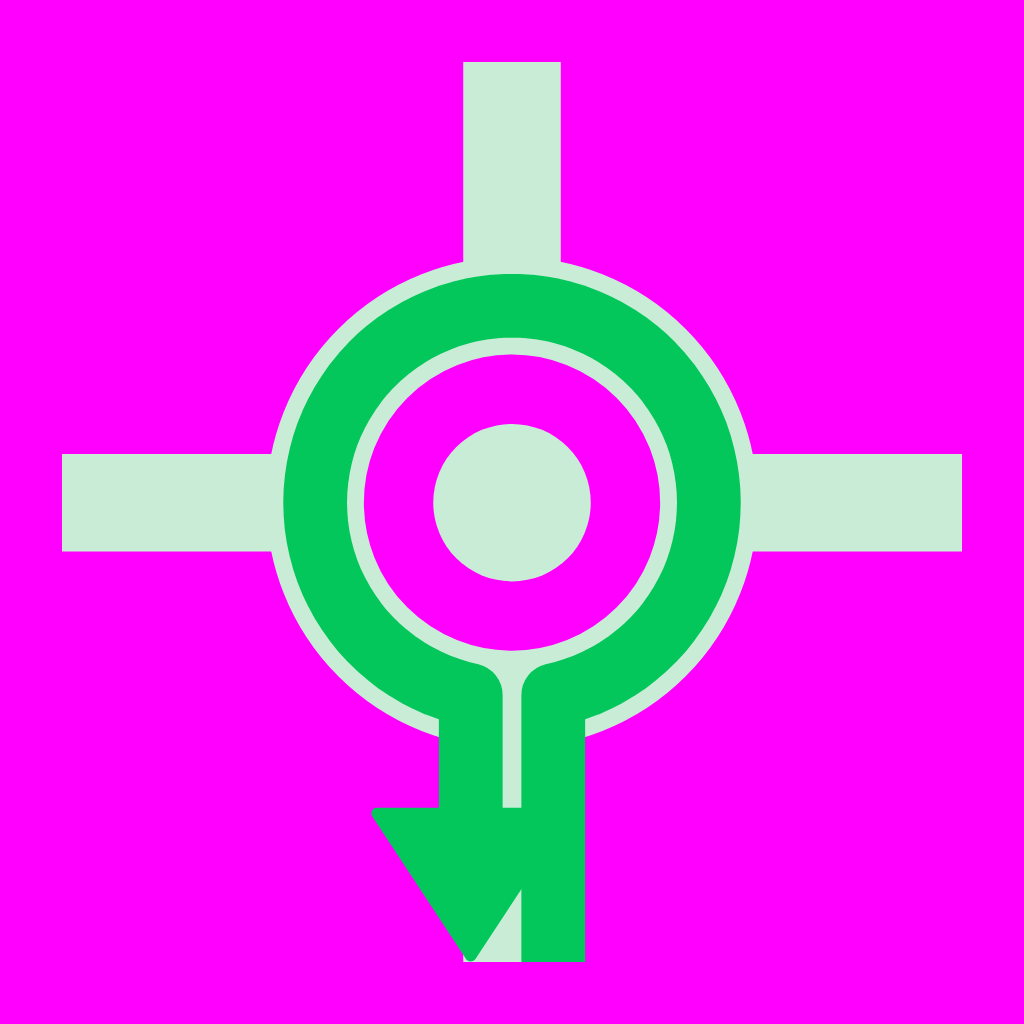
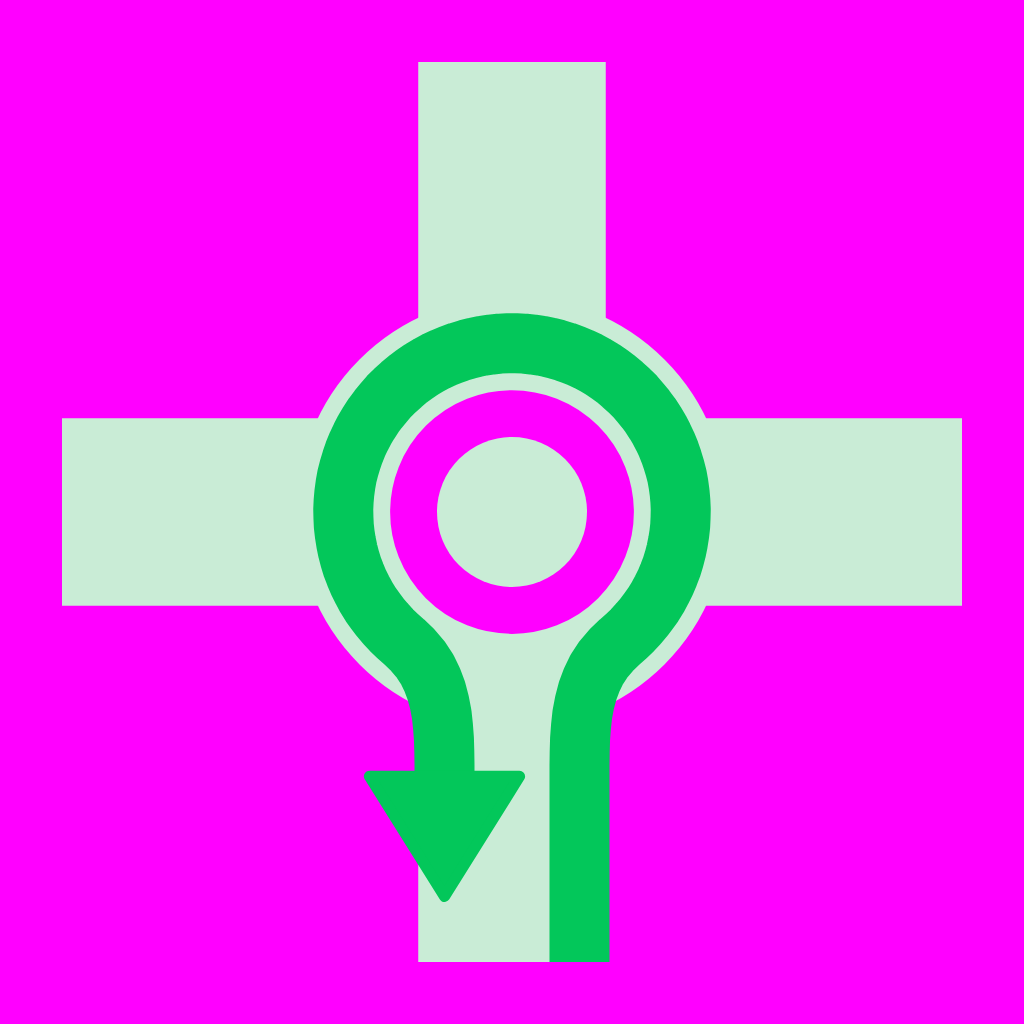
AI sketches: cleaner roundabout and overpass layouts
User spotted sketch flaws (left-exit arrowhead running into the ring, U-turn head touching the entry line).
Roundabouts: smaller ring, smooth entry/exit curves, arrowheads clear of ring and edges, U-turn lines 7 apart.
Overpass ramps: straight over the bridge, shadow only on the road below, ramp edges kept under the main road.
Sketches only; the app does not use them.

Changed region(s): [[0.0625, 0.0625, 0.9375, 0.9375], [0.5312, 0.5312, 0.5625, 0.5625], [0.4375, 0.5312, 0.4688, 0.5625]]

diff --git a/tools/ref_roads.py b/tools/ref_roads.py
@@ -198,9 +198,9 @@ def straight_ramp(key, out):
 
 
 # ------------------------------------------------------------------ 고가차도·지하차도·옆길
-def span_over(p, cy, half):
-    """경로 p 중 가로 길(가운데 y=cy, 반폭 half)을 넘는 부분"""
-    m = np.abs(p[:, 1] - cy) <= half + 2.2
+def span_over(p, cy, half, extra=2.2):
+    """경로 p 중 가로 길(가운데 y=cy, 반폭 half)을 넘는 부분 (extra: 가로 길 밖으로 더 넣는 길이. 그림자는 0 → 가로 길 위에만)"""
+    m = np.abs(p[:, 1] - cy) <= half + extra
     idx = np.nonzero(m)[0]
     return p[idx.min():idx.max() + 1]
 
@@ -240,16 +240,17 @@ def over(key):
         p = pts([('M', (24, 49.5)), ('L', (24, -1.5))])
         w1, t1 = road(p, MAIN_W)
         sp = span_over(p, 21, 5.25)
-        body = (cross_road(21, 10.5) + shadow(sp, MAIN_W) + w1 + t1 + parapets(sp, MAIN_W) +
+        body = (cross_road(21, 10.5) + shadow(span_over(p, 21, 5.25, 0), MAIN_W) + w1 + t1 + parapets(sp, MAIN_W) +
                 lanes(p, MAIN_W, 3, skip=(1, 2)) + arrow(p, start=3.4, end=4.4))
         return svg(key, 'over', body)
     main = pts([('M', (15, 49.5)), ('L', (15, -1.5))])
-    r = pts([('M', (15, 49.5)), ('L', (15, 34)), ('C', (15, 27), (22, 24), (28, 21.5)), ('C', (32.5, 19.6), (35, 16.5), (35, 11)), ('L', (35, -1.5))])
+    r = pts([('M', (15, 49.5)), ('L', (15, 37)), ('C', (15, 30), (35, 32), (35, 25)), ('L', (35, -1.5))])
     w1, t1 = road(main, MAIN_W, 'rd')
     w2, t2 = road(r, 7.2)
-    sp = span_over(r, 12, 4.75)
-    body = (cross_road(12, 9.5, 21.5) + shadow(sp, 7.2) + w1 + w2 + t1 + t2 + lanes(main, MAIN_W, 3) + parapets(sp, 7.2) +
-            arrow(r, start=3.4, end=3.6))
+    sp = span_over(r, 13, 4.75, 1.8)
+    # 연결로의 흰 테는 본선 칠 밑에 (본선 위에 테가 보이지 않게), 그림자는 가로 길 위·연결로 밑에
+    body = (cross_road(13, 9.5) + shadow(span_over(r, 13, 4.75, 0), 7.2) + w1 + w2 + t1 + t2 + lanes(main, MAIN_W, 3) +
+            parapets(sp, 7.2) + arrow(r, start=3.4, end=3.6))
     return svg(key, 'over', body, left=(side == 'l'))
 
 
@@ -282,7 +283,7 @@ def side(key, kind):
         body = w1 + w2 + t1 + t2 + lanes(mid_up, MAIN_W, 3) + portal(19, 3.4, 15.5, 12.4) + arrow(sr, start=3.4, end=4.4)
     else:
         sp = span_over(mid, 11, 4.75)
-        body = (cross_road(11, 9.5) + w2 + t2 + shadow(sp, MAIN_W) + w1 + t1 + parapets(sp, MAIN_W) + lanes(mid, MAIN_W, 3) +
+        body = (cross_road(11, 9.5) + w2 + t2 + shadow(span_over(mid, 11, 4.75, 0), MAIN_W) + w1 + t1 + parapets(sp, MAIN_W) + lanes(mid, MAIN_W, 3) +
                 arrow(sr, start=3.4, end=4.4))
     return svg(key, 'side', body, left=left)
 
@@ -290,17 +291,24 @@ def side(key, kind):
 def rb(key):
     """회전교차로 (2026-11-14 다시: '화살표가 너무 두껍고 대충 만든 것 같다'): 한 색(currentColor) 글리프.
     옅은 고리·네 갈래 길 + 가는 화살표(굵기 3.4)와 뾰족한 화살촉. 아래 길로 들어와 시계 반대 방향(우측 통행)으로 돌아 나간다"""
+    # 2026-11-14 사용자 지적(밑그림이라도 디테일): 왼쪽 출구 화살촉이 고리에 붙고, 유턴 화살촉이 들어오는 선에 닿았다.
+    # → 고리를 조금 작게, 들어오기·나가기는 고리에서 부드럽게 휘어(직각 꺾임 없이), 화살촉은 고리 밖 3 이상·테두리에서 3 안쪽,
+    #   유턴은 들어오는 선(오른쪽)과 나가는 선(왼쪽)을 7 넘게 떼어 화살촉이 닿지 않게
     ex = key.split('_')[1]
-    cx, cy, R = 24.0, 23.5, 10.5
-    faint = ('<g fill="none" stroke="currentColor" stroke-opacity=".26"><circle cx="24" cy="23.5" r="10.5" stroke-width="5.2"/>'
-             '<path d="M24 34.5V49M24 12.5V-1M13.5 23.5H-1M34.5 23.5H49" stroke-width="5.2"/></g>'
-             '<circle cx="24" cy="23.5" r="4.2" fill="currentColor" fill-opacity=".16" stroke="none"/>')
-    pt = lambda a: (cx + R * math.cos(math.radians(a)), cy + R * math.sin(math.radians(a)))
-    x0 = 26.2 if ex == 'u' else 24.0
-    a0 = math.degrees(math.acos((x0 - cx) / R))          # 들어오는 아래 길이 고리와 만나는 각
-    a1 = {'r': 0, 's': -90, 'l': -180, 'u': -360 + (180 - a0)}[ex]
-    od = {'r': (1, 0), 's': (0, -1), 'l': (-1, 0), 'u': (0, 1)}[ex]
-    spec = [('M', (x0, 49)), ('L', pt(a0))]
+    cx, cy, R, J = 24.0, 24.0, 9.0, 4.5     # J: 고리 바깥에서 들어오기·나가기 선이 곧게 시작하는 거리
+    faint = ('<g fill="none" stroke="currentColor" stroke-opacity=".26"><circle cx="24" cy="24" r="9" stroke-width="5"/>'
+             '<path d="M24 33V49M24 15V-1M15 24H-1M33 24H49" stroke-width="%s"/></g>'
+             '<circle cx="24" cy="24" r="4" fill="currentColor" fill-opacity=".16" stroke="none"/>') % ('10' if ex == 'u' else '7')
+    pt = lambda a: np.array((cx + R * math.cos(math.radians(a)), cy + R * math.sin(math.radians(a))))
+    tan = lambda a: np.array((math.sin(math.radians(a)), -math.cos(math.radians(a))))   # 각이 줄어드는(시계 반대) 쪽
+    xin, xout = (27.6, 20.4) if ex == 'u' else (24.0, 24.0)
+    a0 = 50.0 if ex == 'u' else 60.0                       # 고리에 올라타는 각 (아래쪽 조금 오른쪽)
+    a1 = {'r': 30, 's': -60, 'l': -150, 'u': -230}[ex]     # 고리에서 내리는 각 (출구 30° 앞)
+    od = np.array({'r': (1, 0), 's': (0, -1), 'l': (-1, 0), 'u': (0, 1)}[ex], float)
+    e0 = np.array((xin, cy + R + J))
+    x0 = (np.array((xout, cy)) if ex == 'u' else np.array((cx, cy))) + od * (R + J)
+    tip = x0 + od * (20.5 - R - J + (0 if ex == 'u' else 0))          # 화살촉 끝: 가운데에서 20.5 (테두리에서 3.5 안쪽)
+    spec = [('M', (xin, 49)), ('L', tuple(e0)), ('C', tuple(e0 + np.array((0, -2.6))), tuple(pt(a0) - tan(a0) * 2.6), tuple(pt(a0)))]
     # 원호를 3차 곡선 여러 개로
     steps = max(2, int(abs(a1 - a0) / 30))
     angs = np.linspace(a0, a1, steps + 1)
@@ -311,10 +319,10 @@ def rb(key):
         c1 = p0 + k * R * np.array([-math.sin(t0), math.cos(t0)])
         c2 = p1 - k * R * np.array([-math.sin(t1), math.cos(t1)])
         spec.append(('C', tuple(c1), tuple(c2), tuple(p1)))
-    end = np.array(pt(a1))
-    spec.append(('L', tuple(end + np.array(od) * (12.5 if ex != 'u' else 14.5))))
-    p = pts(spec, 10)
-    a = arrow(p, start=1.0, end=0.6, w=3.4, hl=7.6, hw=5.0, color='currentColor')
+    spec.append(('C', tuple(pt(a1) + tan(a1) * 2.6), tuple(x0 - od * 2.6), tuple(x0)))
+    spec.append(('L', tuple(tip)))
+    p = pts(spec, 12)
+    a = arrow(p, start=1.0, end=0.0, w=3.2, hl=6.4, hw=4.0, color='currentColor')
     return '<svg viewBox="0 0 48 48" class="ti ti-%s rb">%s%s</svg>' % (key, faint, a)
 
 
